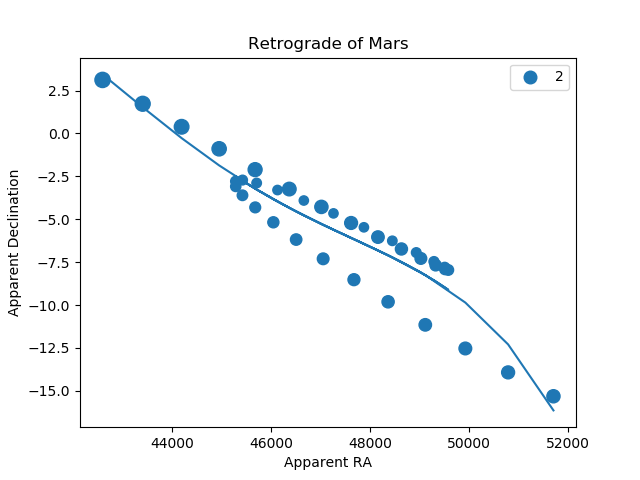
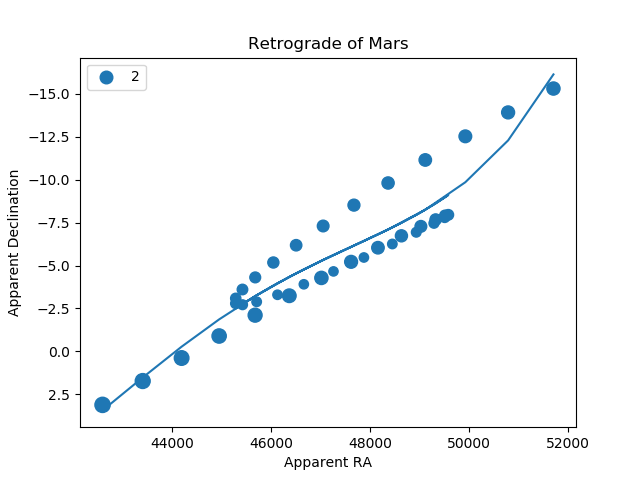
took out unused code

diff --git a/fitted_it.py b/fitted_it.py
@@ -1,9 +1,7 @@
-#!/usr/bin/env python3
-# -*- coding: utf-8 -*-
+
 """
 Created on Thu Nov 15 21:28:14 2018
 
-@author: Basu
 """
 
 import pandas as pd
@@ -16,15 +14,11 @@ from matplotlib import pylab
 from scipy.optimize import curve_fit
 import numpy.polynomial.polynomial as poly
 
-#import plotly.plotly as py
-#import plotly.graph_objs as go
+
 
 path = 'Input_Project2_MarsEphemeris.txt'
 
-#with open(path, 'rb') as f:
-#  text = f.read()
 
-#print(text)
 
 tp = pd.read_csv(path, sep="\s{2,}" ,chunksize=1,engine='python', encoding = "ISO-8859-1", iterator=True, error_bad_lines=False, header=None, skiprows=3)
 
@@ -39,16 +33,16 @@ head = pd.concat(headdf, ignore_index=True)
 
 a = head[0][0].strip().split()
 
-#df=pd.DataFrame(a, columns=[0])
+
 
 b = re.split("\s{2,}", head[0][1].strip())
-#splitted = head[0][0].strip().split("\s+")
+
 
 print(head)
 print(df)
 
 print("Apparent R.A for: " + df[0][10] + " is "+ df[1][10] + " and the declination is "+ df[2][10])#a = df[1][1]
-#a = df[0][:]
+
 
 #Part 2
 def dms2dd(num):
@@ -67,14 +61,11 @@ def hours2dec(num):
 df[2] = df[2].apply(lambda x: dms2dd(x))
 df[1] = df[1].apply(lambda x: hours2dec(x))
 
-#df.plot(x=1, y=2, style='o', ms=2.4*df[3])
-#3389.4
 
 size = []
 for i in df[3]:
-#    s.append((float(i)*(100)))
     size.append(((3.14*(3389.4)*3389.4)*float(i))/500000) #scaled by 500,000
-    print(i)
+    #print(i)
 
 plt.scatter(df[1], df[2], s=size)
 
@@ -87,62 +78,11 @@ plt.legend()
 
 x = df[1].values
 y = df[2].values
-#Arrow
-#fig, ax = plt.subplot()
-#q = ax.quiver(x,y)
-#ax.quiverkey(q,x,y)
 
-#Turnaround dates
-    #change RA back to hours
-#def dec2hours(num):
-  #  num2 = num.strip().split()
- #   result = float(num2[0]) * 3600 + float(num2[1]) * 60 + float(num2[2])
-
-#turndates = []
-#for i in df[1]: 
-    #if i > i+1:
-        #df[0] = i
-        #turndates.append()
-#plt.scatter(turndates, d[2])
-
-#fitted = np.polyfit(x, y, 4).tolist()
 
 coefs = poly.polyfit(x, y, 4)
 ffit = poly.polyval(df[1], coefs)
-plt.gca().invert_yaxis()
-#plt.gca().invert_xaxis()
+#plt.gca().invert_yaxis()
+plt.gca().invert_xaxis()
 plt.plot(df[1], ffit)
 plt.show()
-#plt.plot(fitted)
-
-
-
-#x = df[1]
-#y = df[2]
-#def exponenial_func(x, a, b, c):
-#    return a*np.exp(-b*x)+c
-#
-#
-#
-#popt, pcov = curve_fit(exponenial_func, x, y, p0=(1, 1e-6, 1))
-#
-#xx = np.linspace(300, 6000, 1000)
-#yy = exponenial_func(xx, *popt)
-#
-#plt.plot(x,y,'o', xx, yy)
-#pylab.title('Exponential Fit')
-#ax = plt.gca()
-#ax.set_axis_bgcolor((0.898, 0.898, 0.898))
-#fig = plt.gcf()
-#py.plot_mpl(fig, filename='Exponential-Fit-with-matplotlib')
-
-
-#yfit = [df[1] + df[2] * xi for xi in df[1]]
-#plt.plot(df[1], yfit)
-
-
-
-
-
-
-
